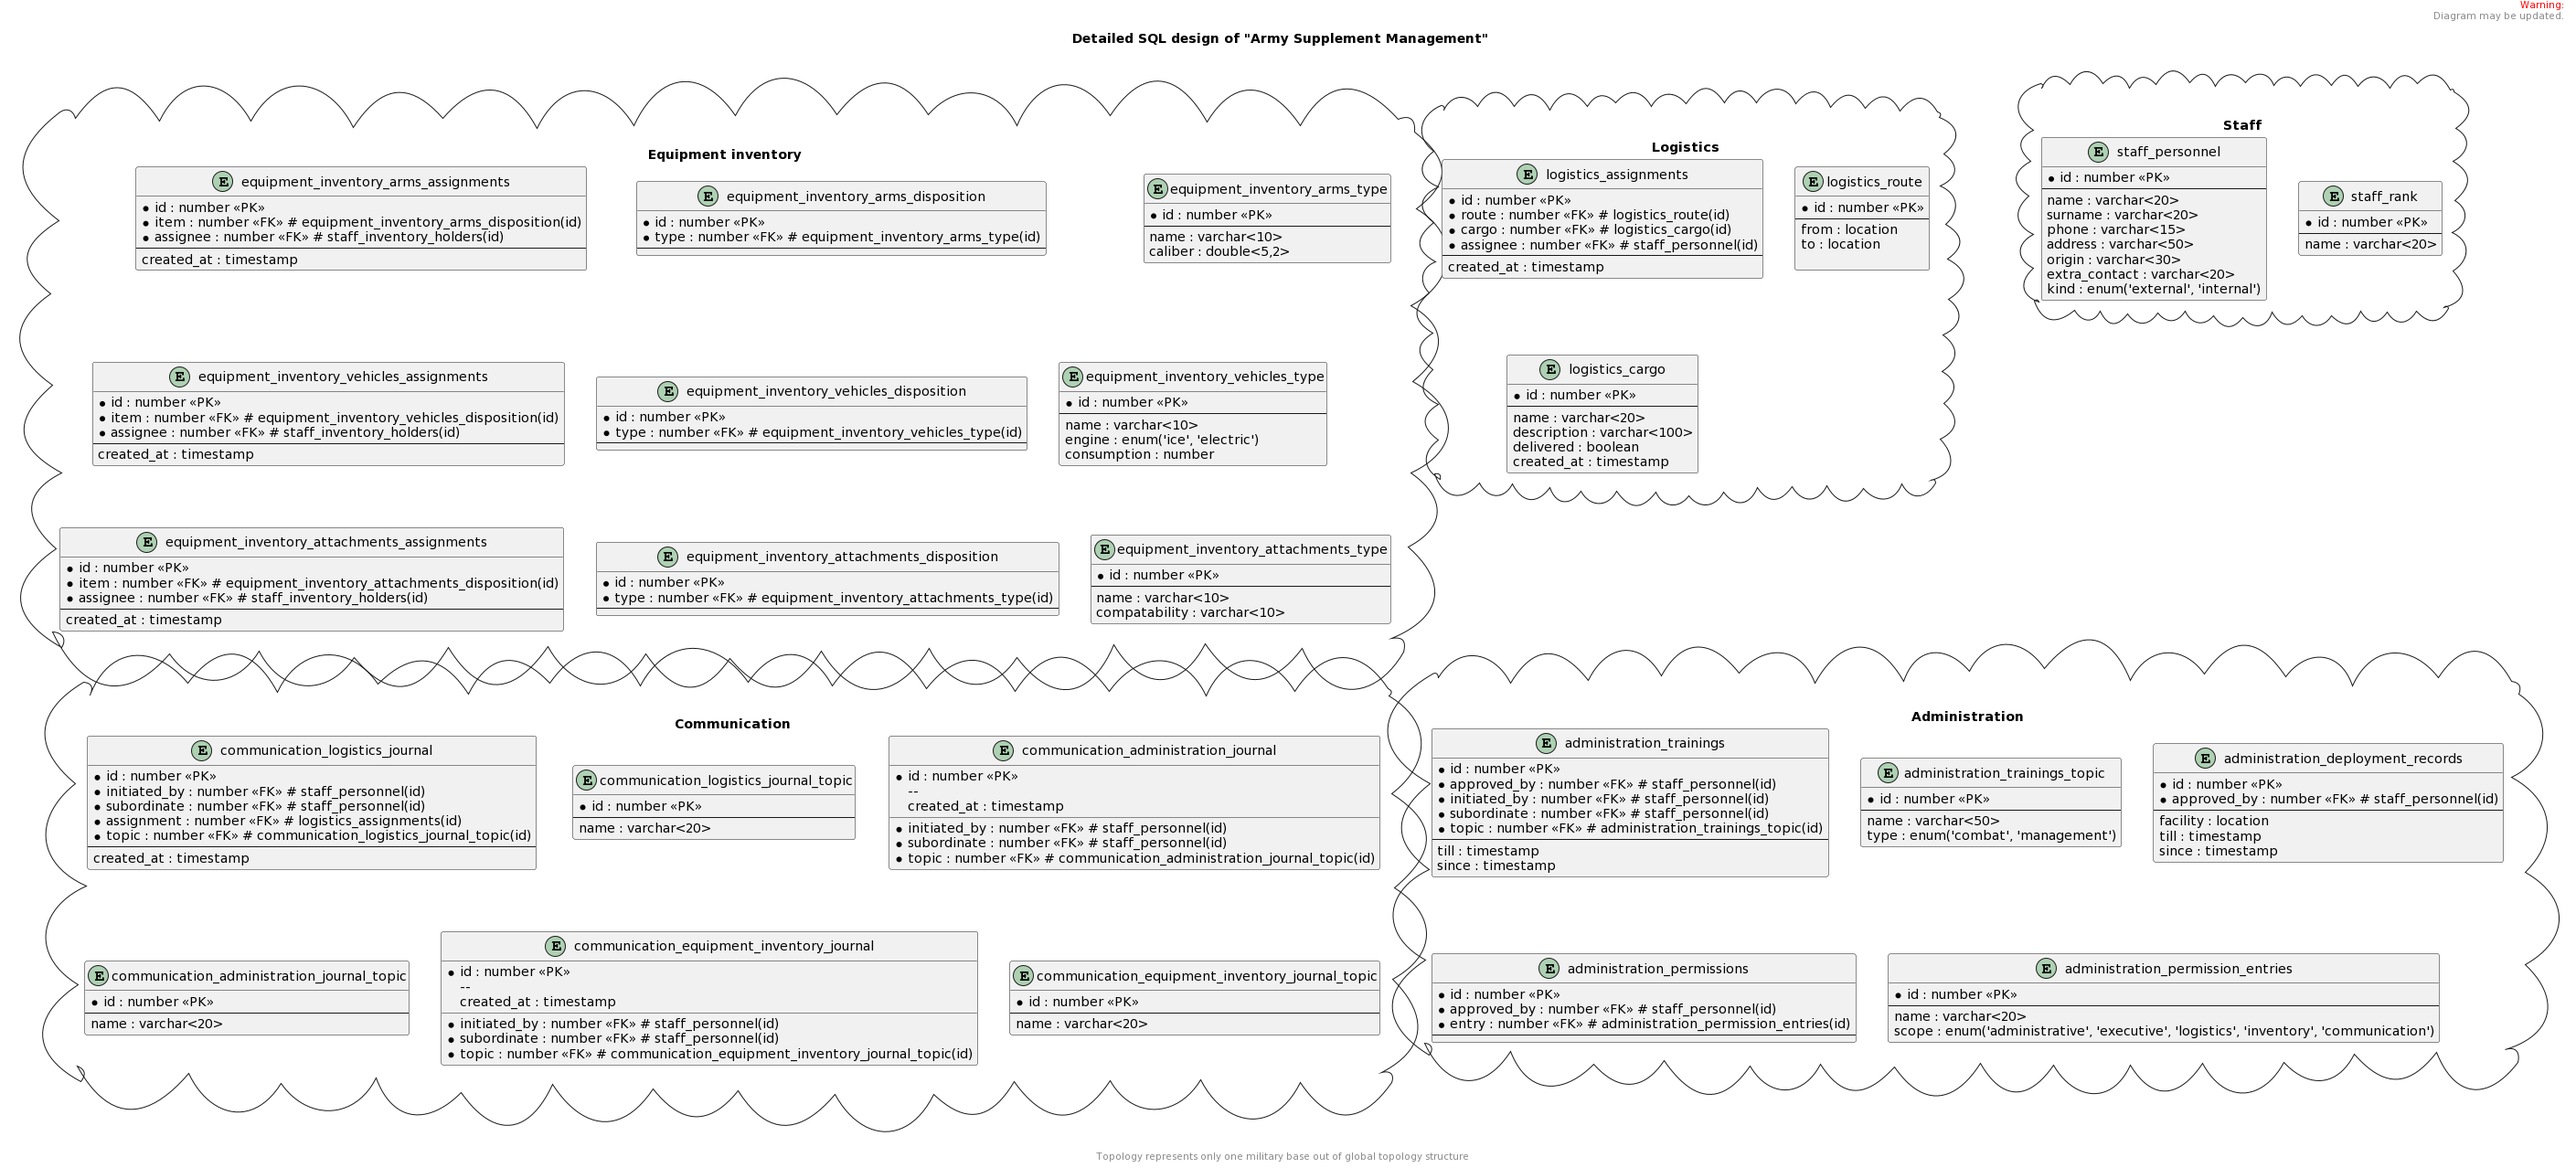
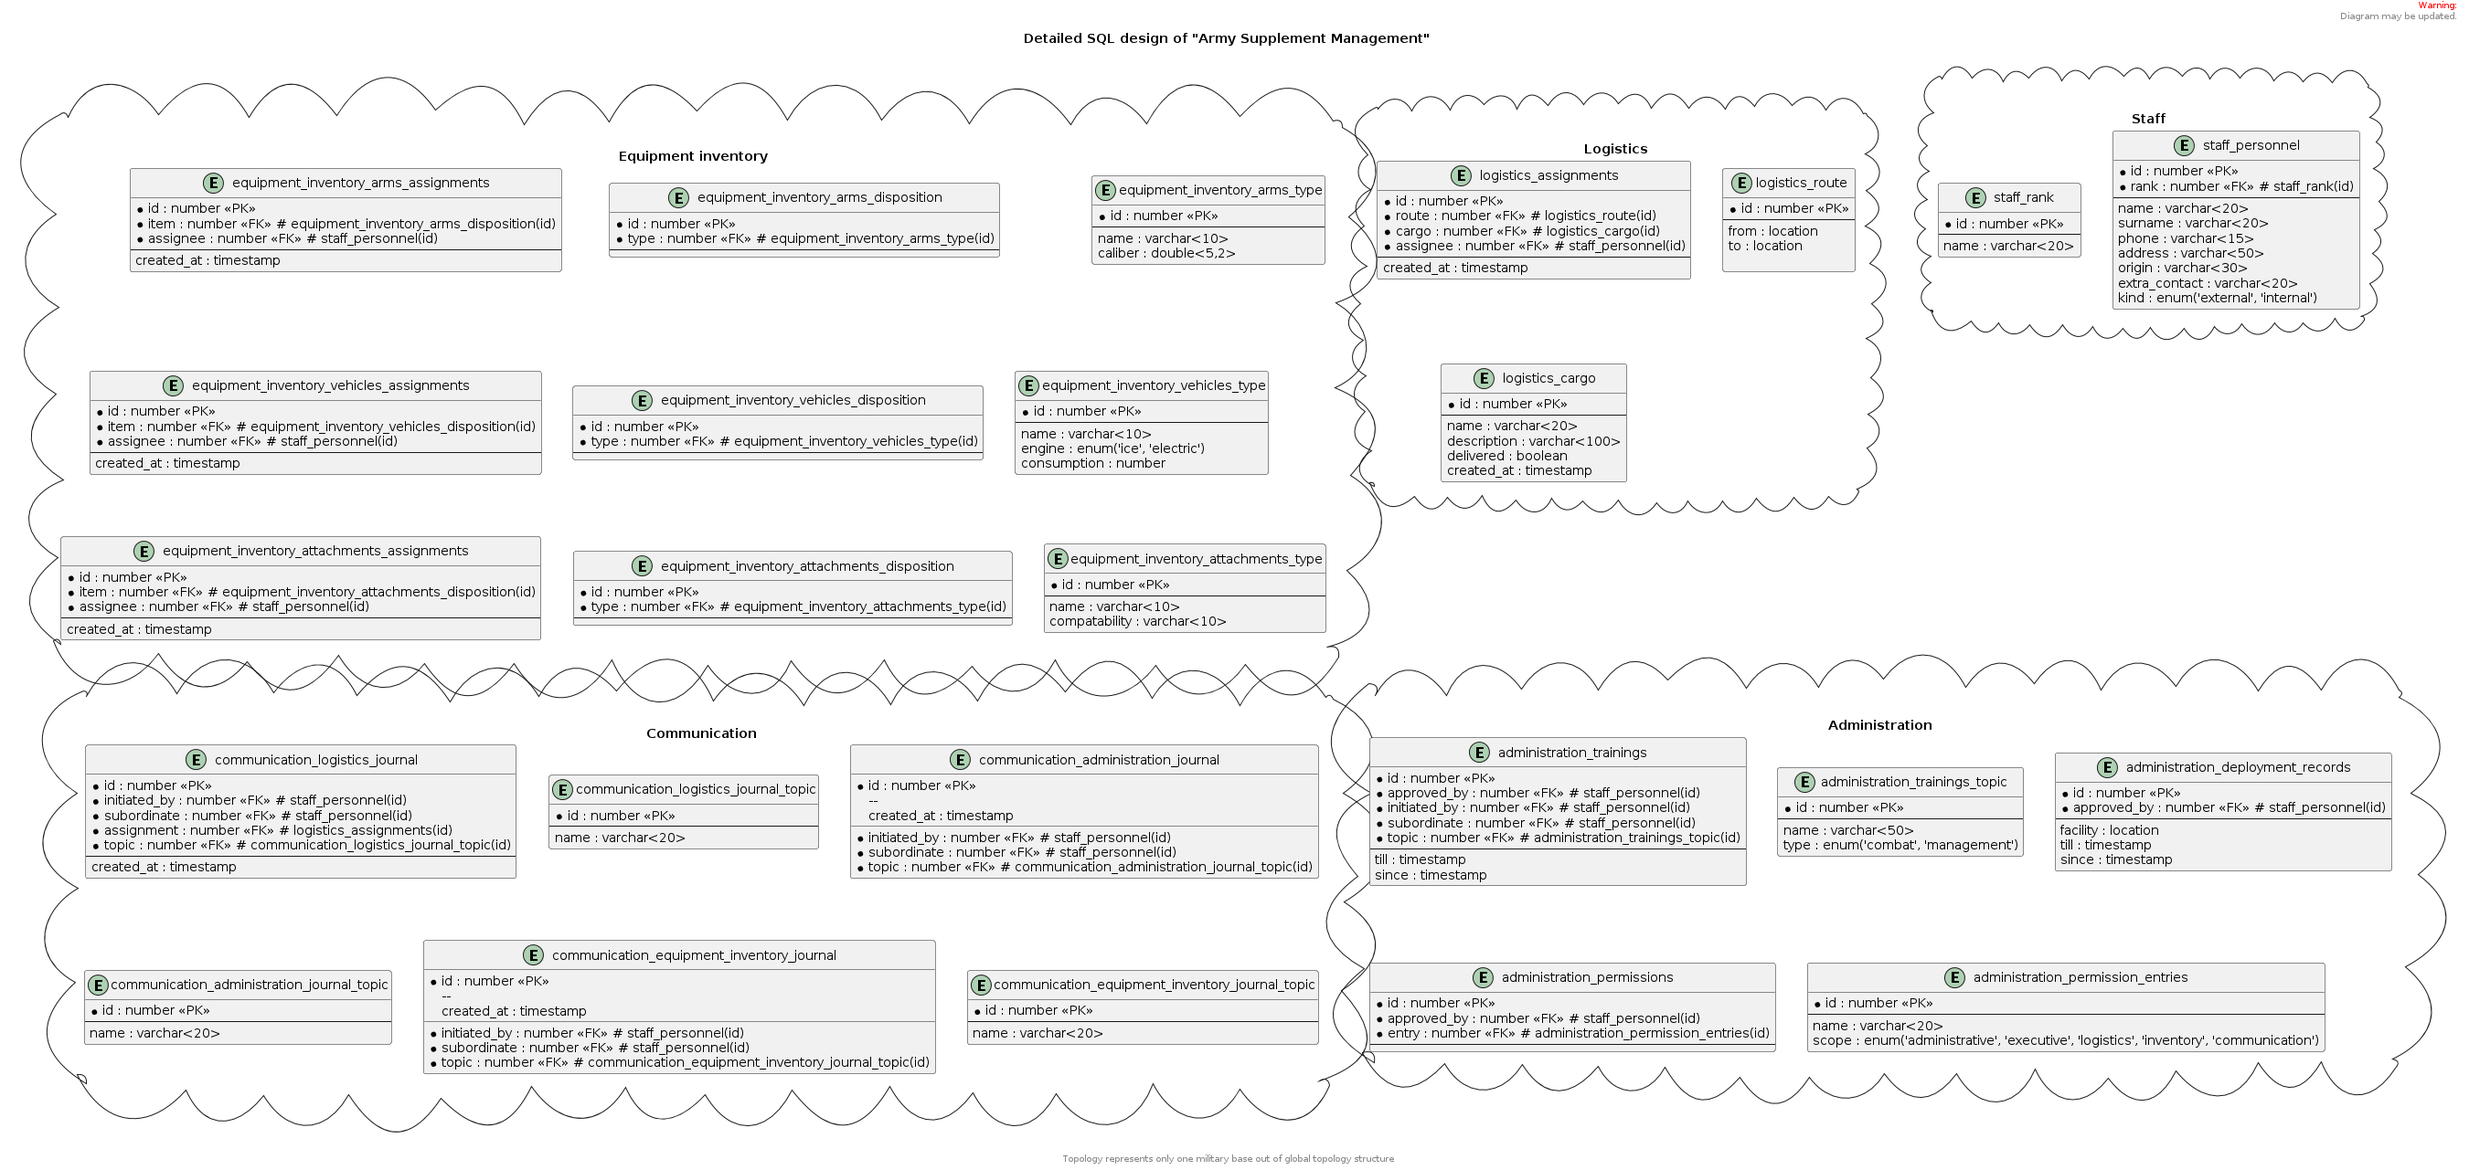
Feature: add SQL diagram representation (#7)
* feature: added detailed sql diagram

* fix: fixed sql diagram

* fix: fixed bugs

* fix: fixed bugs

diff --git a/docs/examples/detailed-design-sql.md b/docs/examples/detailed-design-sql.md
@@ -15,7 +15,7 @@ cloud "\l\lEquipment inventory" as equipment_inventory {
 entity "equipment_inventory_arms_assignments" {
     *id : number <<PK>>
     *item : number <<FK>> # equipment_inventory_arms_disposition(id)
-    *assignee : number <<FK>> # staff_inventory_holders(id)
+    *assignee : number <<FK>> # staff_personnel(id)
     --
     created_at : timestamp
 }
@@ -36,7 +36,7 @@ entity "equipment_inventory_arms_type" {
 entity "equipment_inventory_vehicles_assignments" {
     *id : number <<PK>>
     *item : number <<FK>> # equipment_inventory_vehicles_disposition(id)
-    *assignee : number <<FK>> # staff_inventory_holders(id)
+    *assignee : number <<FK>> # staff_personnel(id)
     --
     created_at : timestamp
 }
@@ -58,7 +58,7 @@ entity "equipment_inventory_vehicles_type" {
 entity "equipment_inventory_attachments_assignments" {
     *id : number <<PK>>
     *item : number <<FK>> # equipment_inventory_attachments_disposition(id)
-    *assignee : number <<FK>> # staff_inventory_holders(id)
+    *assignee : number <<FK>> # staff_personnel(id)
     --
     created_at : timestamp
 }
@@ -118,6 +118,7 @@ entity "staff_rank" {
 
 entity "staff_personnel" {
     *id : number <<PK>>
+    *rank : number <<FK>> # staff_rank(id)
     --
     name : varchar<20>
     surname : varchar<20>
